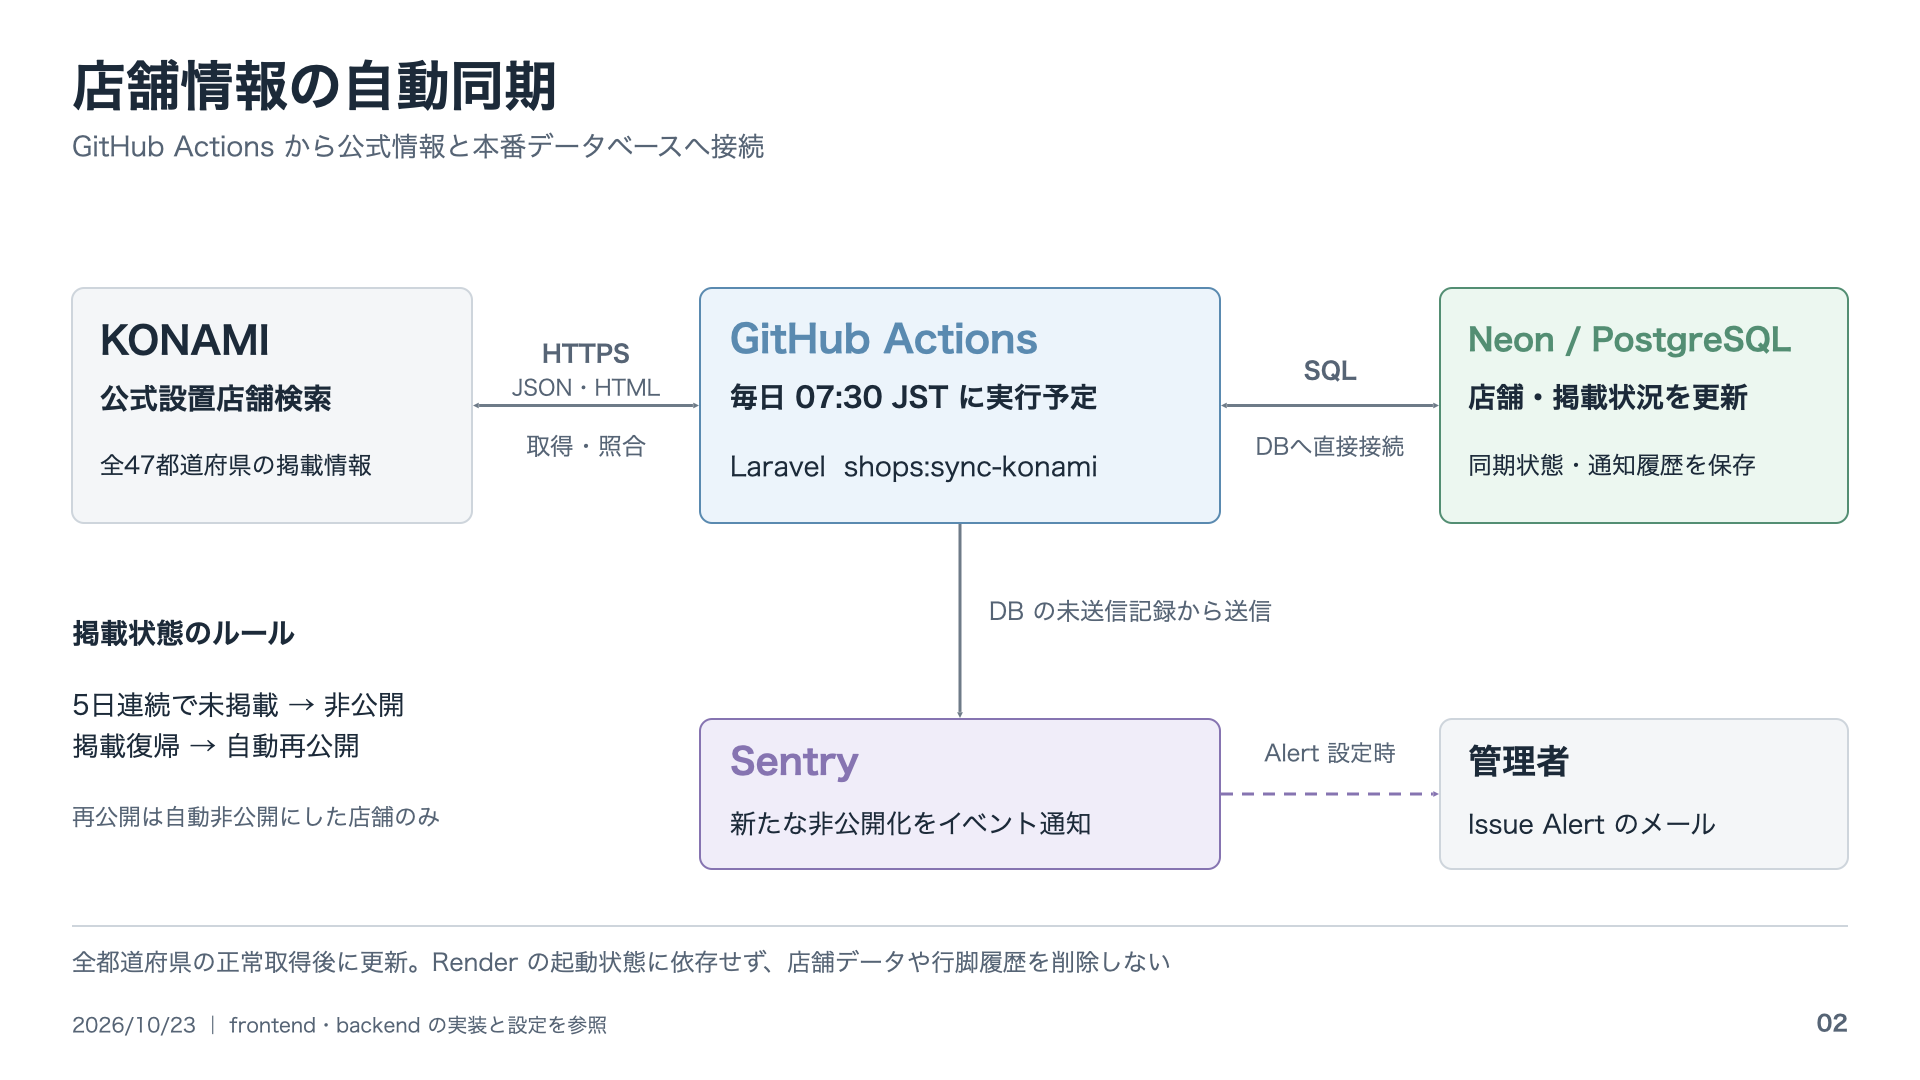
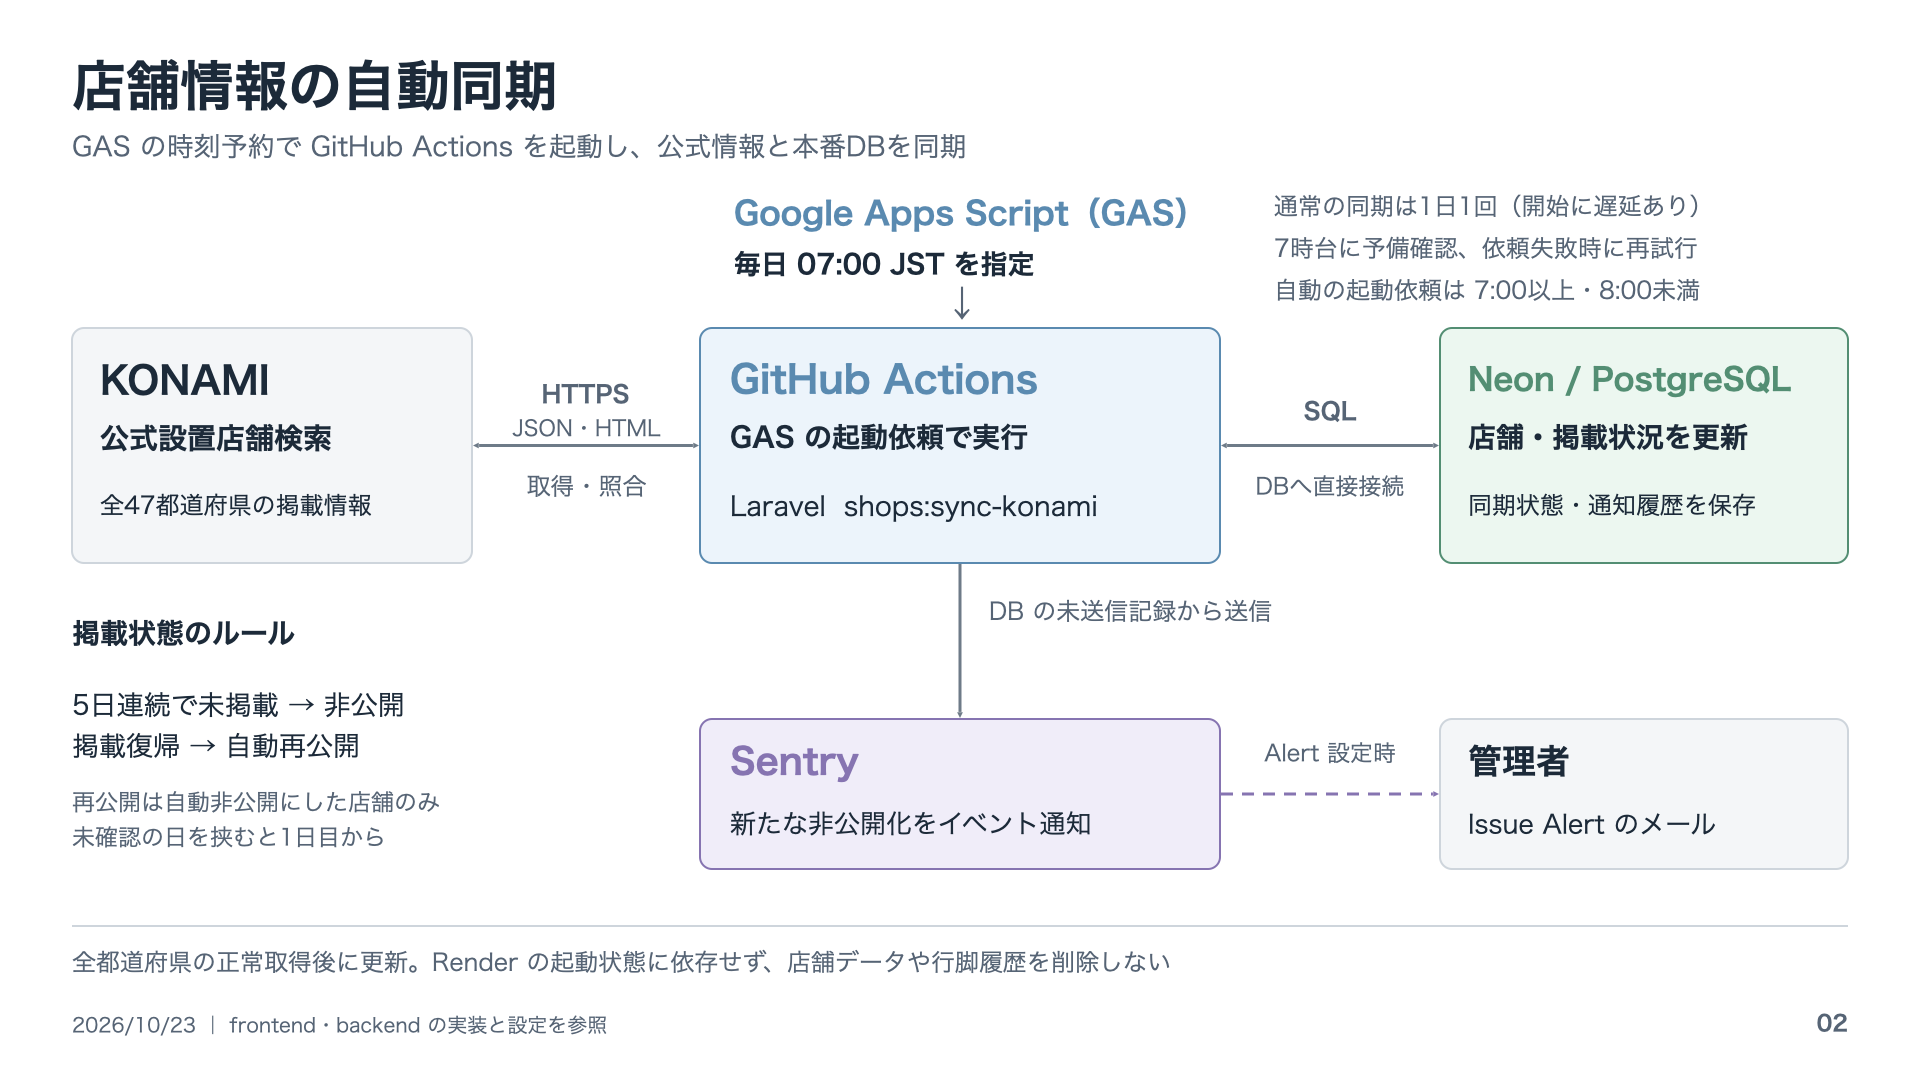
docs: update shop sync diagram for 07:00 GAS schedule

diff --git a/README.md b/README.md
@@ -86,13 +86,23 @@ https://rbplus-rank-manager.site<br>
 # 構成図
 ## アーキテクチャ構成図
 
-![Architecture](./public/Architecture-20261023.png)
+### アプリケーション構成
 
-![店舗情報の自動同期](./public/Architecture-shop-sync-20261023.png)
+![Architecture](./public/Architecture-20261023.png)
 
 このアプリケーションは Vue 3 + Vite を用いたSPAとして構築されており、Laravel（Breeze + Sanctum）と連携したセキュアな認証処理を実装している。インフラはフロントをVercel、バックエンドをRender、DBをNeonにホストし、無料プランのスリープ対策としてGoogle Apps Scriptで定期的にアクセスを行う構成としている。
 
 DNS管理はムームードメインで行い、ドメイン名 `rbplus-rank-manager.site` によって独自ドメインで運用している。
+
+### 店舗情報の自動同期
+
+![店舗情報の自動同期](./public/Architecture-shop-sync-20261023.png)
+
+Google Apps Script（GAS）が毎日07:00（日本時間）を指定してGitHub Actionsへ起動依頼する。通常は本実行と7時台の予備確認の計2回GASが動作し、店舗同期は1日1回行う。GitHubへの起動依頼に失敗した場合だけ7時台に再試行する。自動の起動依頼は07:00以上08:00未満に限り、実際の開始にはGASの遅延やGitHub runnerの待ち時間が加わる。
+
+GitHub ActionsでLaravelの `shops:sync-konami` コマンドを実行し、KONAMI公式検索の全47都道府県を取得してNeonの店舗情報と照合する。全件を正常に取得した後、5日連続で未掲載の店舗を非公開にし、自動非公開にした店舗が復帰した場合は再公開する。新たな非公開化をSentry経由でメール通知する。Renderの起動状態には依存しない。
+
+取得に失敗した場合は店舗情報を更新しない。起動依頼の受付後に同期処理が失敗した場合は、自動で再実行せず原因確認後に手動実行する。詳細は[バックエンドの運用説明](https://github.com/misato729/score-manager-backend#設置店舗の自動非公開化再公開)を参照。
 
 ## データベース構成（ER図）
 
